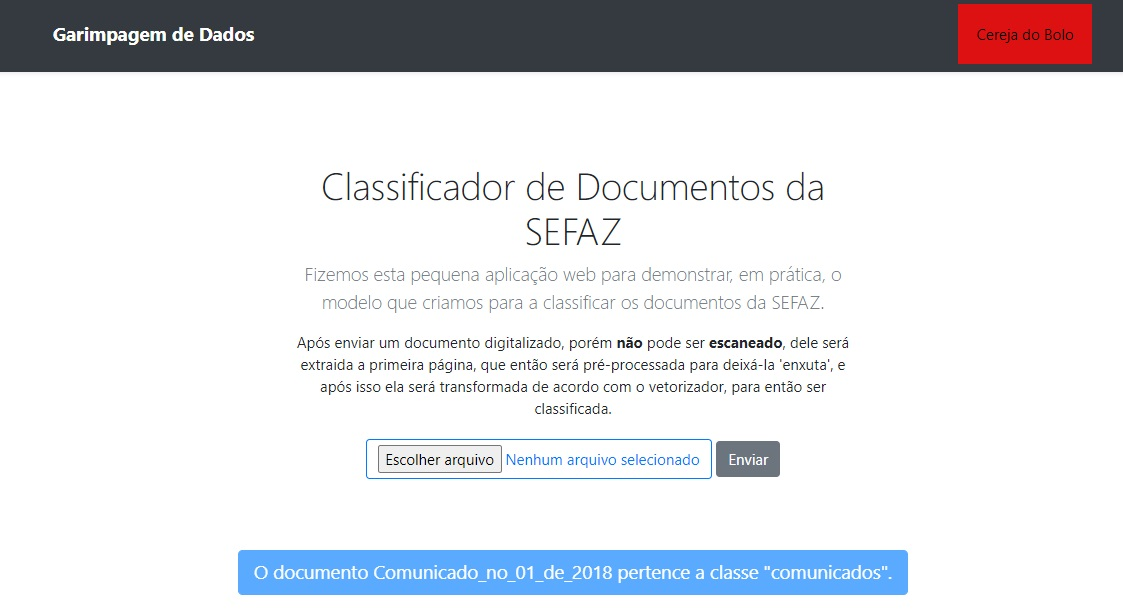
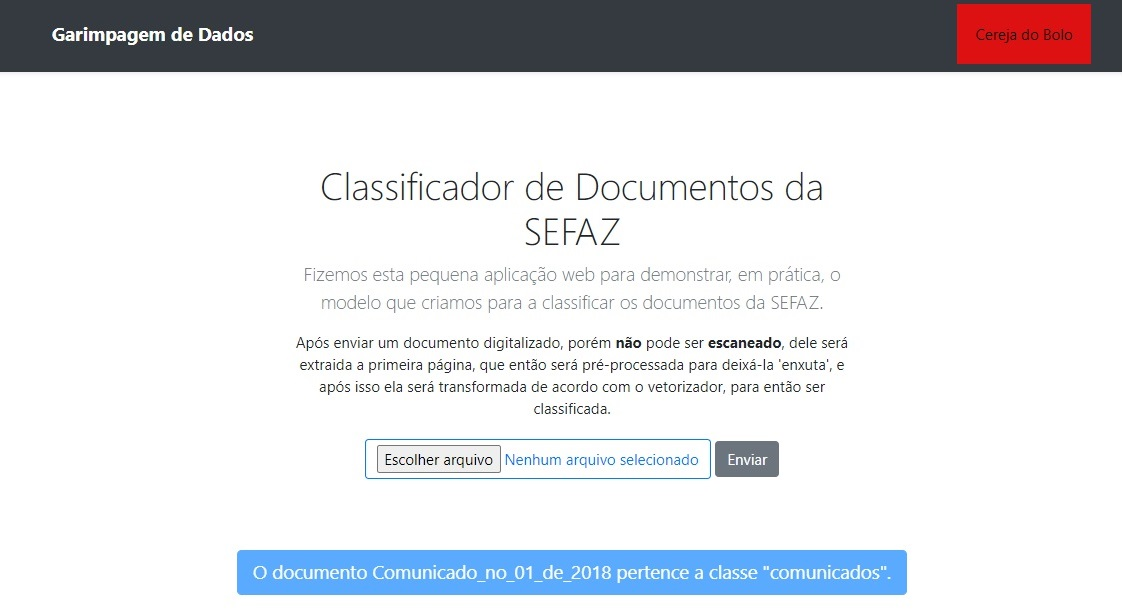
Readme atualizado

diff --git a/README.md b/README.md
@@ -19,5 +19,5 @@
    #### Após selecionar um modelo, criamos uma pipeline com as etapas utilizadas pelo modelo para classificar um documento já pré-processado. Então colocamos está pipeline num aplicação Flask, criada para demonstrar o resultada do uma predição.
 
    <p align="center">
-      <img src="./fotos/resultado.jpg" width="700" title="hover text">
+      <img src="./fotos/resultado.jpg" width="750" title="hover text">
    </p>
